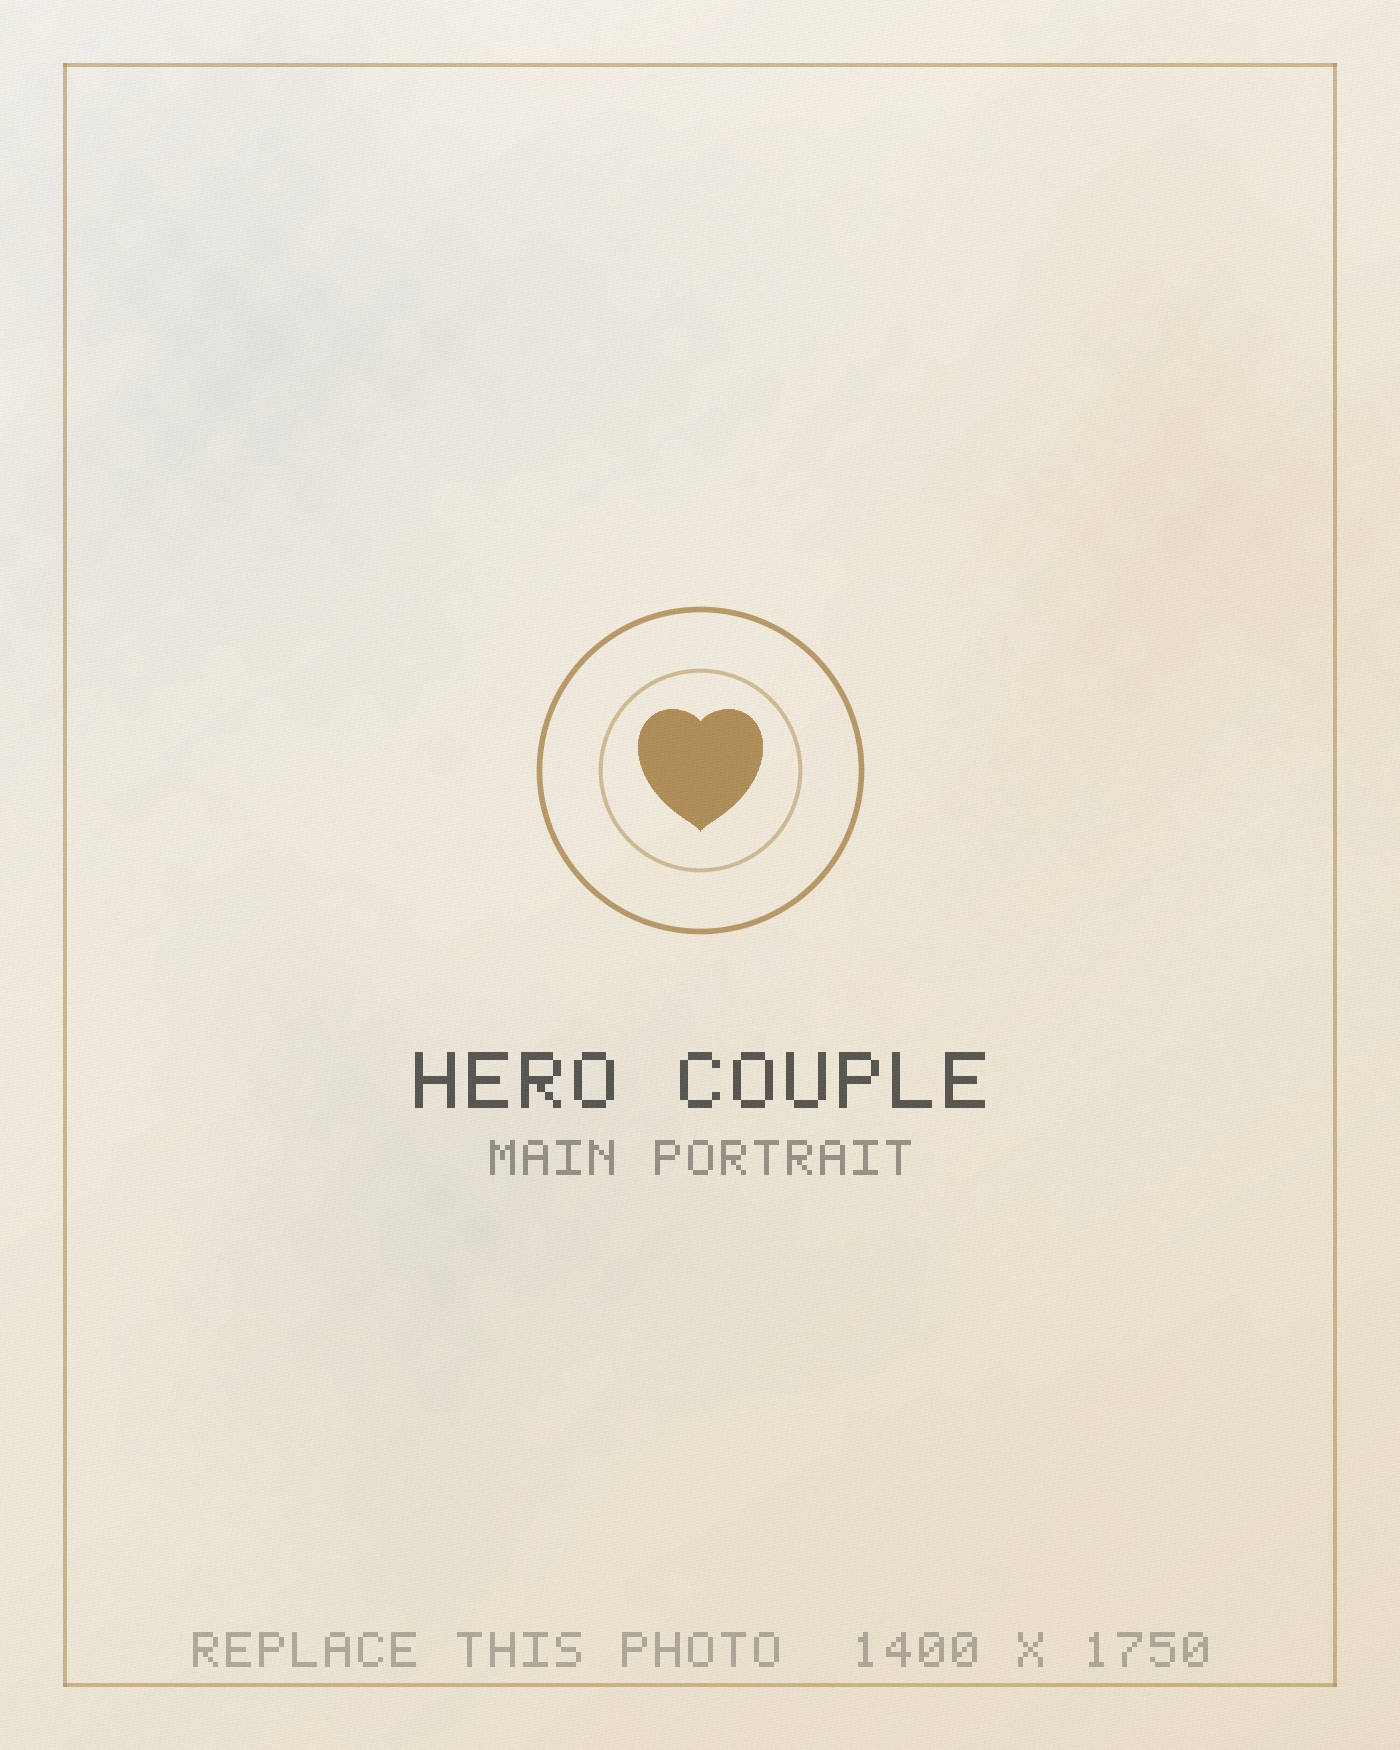
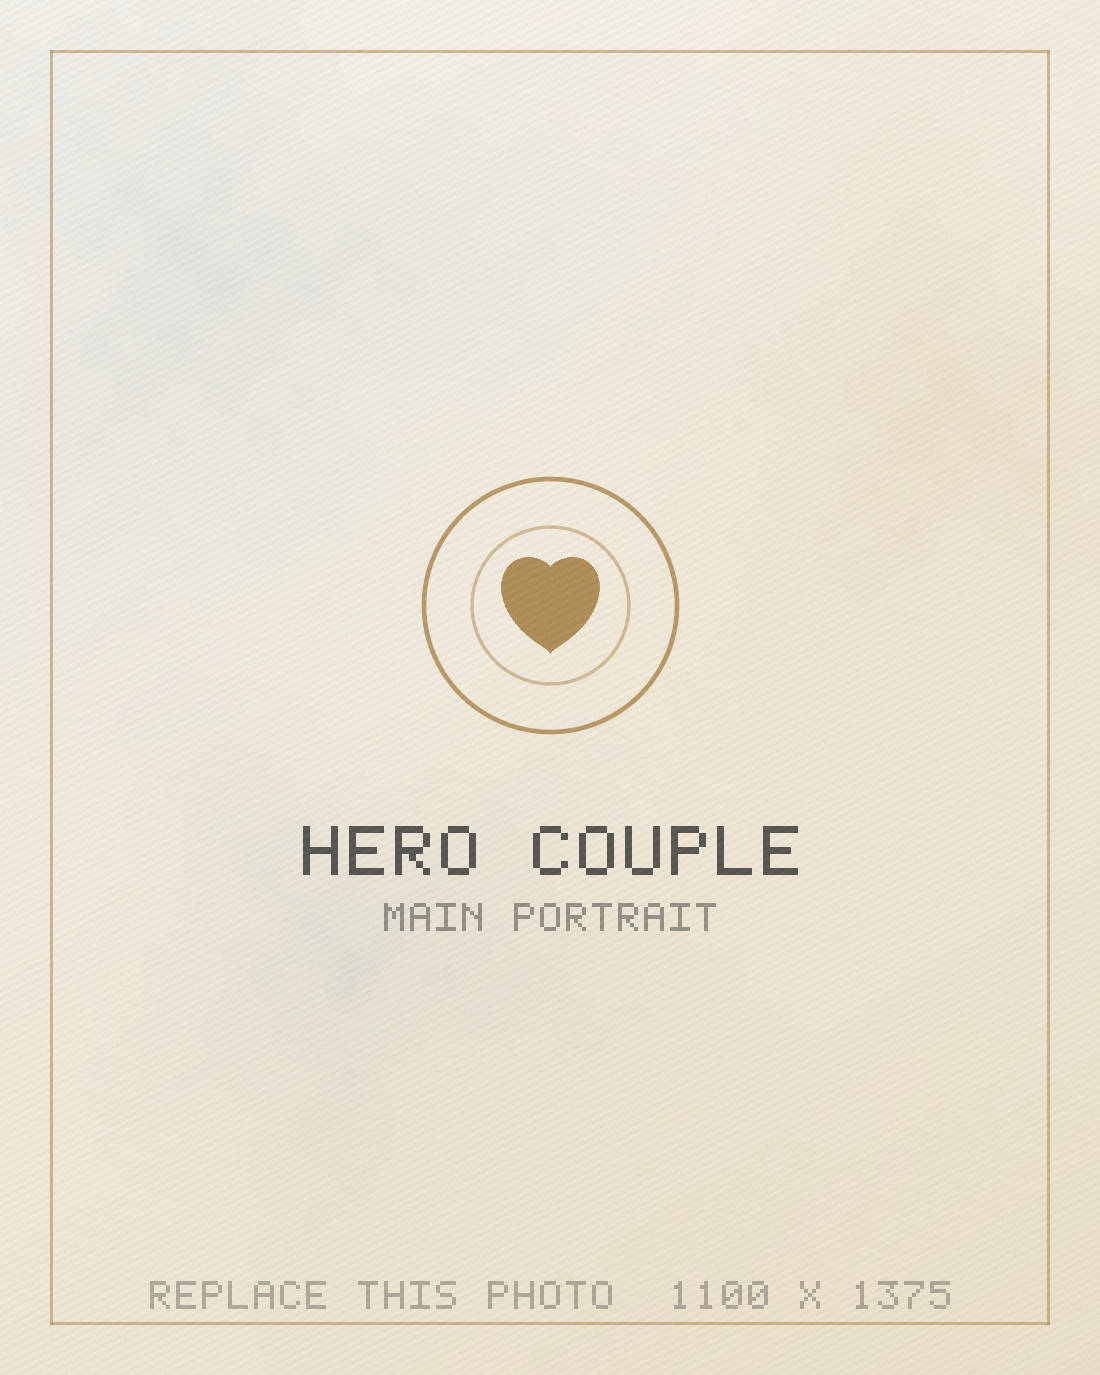
perf: defer decorative layers, unblock font loading and raise contrast to reach Lighthouse 96/100/96/100

diff --git a/style.css b/style.css
@@ -19,7 +19,7 @@
   --ink:var(--charcoal);
   --ink-70:rgba(35,35,35,.72);
   --ink-55:rgba(35,35,35,.56);
-  --ink-35:rgba(35,35,35,.36);
+  --ink-35:rgba(35,35,35,.54);
   --line:rgba(176,141,87,.28);
   --paper:#FBF9F5;
 
@@ -66,7 +66,6 @@ body{
     radial-gradient(120% 70% at 12% -8%, rgba(188,199,206,.30) 0%, rgba(188,199,206,0) 60%),
     radial-gradient(100% 60% at 92% 8%, rgba(216,188,138,.22) 0%, rgba(216,188,138,0) 55%),
     radial-gradient(120% 80% at 50% 108%, rgba(233,223,201,.55) 0%, rgba(233,223,201,0) 60%);
-  background-attachment:fixed;
   overflow-x:hidden;
   -webkit-font-smoothing:antialiased;
   -moz-osx-font-smoothing:grayscale;
@@ -158,8 +157,8 @@ address{font-style:normal}
   border:1px solid var(--line);color:var(--ink);background:rgba(255,255,255,.4);
 }
 .btn--ghost:hover{background:rgba(255,255,255,.75);border-color:var(--gold);transform:translateY(-2px)}
-.btn--wa{background:#1FA855;color:#fff;box-shadow:0 12px 26px -16px rgba(31,168,85,.95)}
-.btn--wa:hover{transform:translateY(-2px);background:#189347}
+.btn--wa{background:#15773F;color:#fff;box-shadow:0 12px 26px -16px rgba(21,119,63,.95)}
+.btn--wa:hover{transform:translateY(-2px);background:#10602F}
 .btn:active{transform:translateY(0) scale(.985)}
 .btn[disabled]{opacity:.6;pointer-events:none}
 .ico{width:1.05em;height:1.05em;flex:none;fill:none;stroke:currentColor;stroke-width:1.6;stroke-linecap:round;stroke-linejoin:round}
@@ -176,7 +175,12 @@ address{font-style:normal}
 .wc{
   position:fixed;top:8vh;width:min(46vw,520px);z-index:0;pointer-events:none;
   opacity:.72;will-change:transform;
+  /* the washes belong to the invitation, not the splash: keeping them out of
+     the first render also keeps them out of the Largest Contentful Paint */
+  display:none;
 }
+body.invite-open .wc{display:block;animation:wcFade 1.2s var(--ease) both}
+@keyframes wcFade{from{opacity:0}to{opacity:.72}}
 .wc--left{left:-8vw}
 .wc--right{right:-8vw;top:38vh}
 .wc img{width:100%;height:auto}
@@ -213,24 +217,26 @@ address{font-style:normal}
 .splash.is-open{opacity:0;transform:scale(1.06);visibility:hidden;pointer-events:none}
 .splash__wash{position:absolute;inset:-10%;pointer-events:none}
 .wash{
-  position:absolute;border-radius:50%;filter:blur(46px);
-  animation:washFloat 16s ease-in-out infinite alternate;
-  transform-origin:center;
+  position:absolute;border-radius:50%;filter:blur(28px);
+  animation:washFloat 26s ease-in-out infinite alternate;
+  transform-origin:center;will-change:transform;
 }
-.wash--1{width:58vmax;height:58vmax;left:-18vmax;top:-16vmax;background:radial-gradient(circle at 40% 40%,rgba(188,199,206,.72),rgba(188,199,206,0) 66%);animation-delay:-2s}
-.wash--2{width:52vmax;height:52vmax;right:-16vmax;top:6vmax;background:radial-gradient(circle at 55% 45%,rgba(216,188,138,.55),rgba(216,188,138,0) 66%);animation-delay:-7s}
-.wash--3{width:64vmax;height:64vmax;left:12vmax;bottom:-30vmax;background:radial-gradient(circle at 50% 50%,rgba(233,223,201,.85),rgba(233,223,201,0) 66%);animation-delay:-11s}
+.wash--1{width:54vmax;height:54vmax;left:-18vmax;top:-16vmax;background:radial-gradient(circle at 40% 40%,rgba(188,199,206,.72),rgba(188,199,206,0) 66%);animation-delay:-3s}
+.wash--2{width:48vmax;height:48vmax;right:-16vmax;top:6vmax;background:radial-gradient(circle at 55% 45%,rgba(216,188,138,.55),rgba(216,188,138,0) 66%);animation-delay:-11s}
+.wash--3{width:58vmax;height:58vmax;left:12vmax;bottom:-28vmax;background:radial-gradient(circle at 50% 50%,rgba(233,223,201,.85),rgba(233,223,201,0) 66%);animation-delay:-18s}
+/* deliberately gentle: a large, fast wash costs paint time on every frame */
 @keyframes washFloat{
   0%{transform:translate3d(0,0,0) scale(1)}
-  50%{transform:translate3d(2.5vw,-2vh,0) scale(1.09)}
-  100%{transform:translate3d(-2vw,2.5vh,0) scale(1.03)}
+  50%{transform:translate3d(.8vw,-.7vh,0) scale(1.025)}
+  100%{transform:translate3d(-.7vw,.8vh,0) scale(1.01)}
 }
 
 .splash__inner{
   position:relative;text-align:center;max-width:640px;
-  animation:splashIn 1.5s var(--ease) both;
+  /* kept short: a long fade here delays Largest Contentful Paint */
+  animation:splashIn .7s var(--ease) both;
 }
-@keyframes splashIn{from{opacity:0;transform:translateY(18px)}to{opacity:1;transform:none}}
+@keyframes splashIn{from{opacity:0;transform:translateY(14px)}to{opacity:1;transform:none}}
 
 .splash__bismillah{
   font-size:clamp(1.05rem,3.4vw,1.5rem);color:var(--gold-deep);
@@ -265,7 +271,7 @@ address{font-style:normal}
   font-size:.78rem;letter-spacing:.2em;text-transform:uppercase;color:var(--ink-55);
   margin-bottom:2rem;
 }
-.splash #openInvite{animation:pulseGold 3.4s ease-in-out 1.6s infinite}
+.splash #openInvite{animation:pulseGold 3.4s ease-in-out 1.2s infinite}
 @keyframes pulseGold{
   0%,100%{box-shadow:0 12px 26px -14px rgba(142,110,63,.9)}
   50%{box-shadow:0 12px 30px -12px rgba(142,110,63,.95),0 0 0 10px rgba(176,141,87,.08)}

diff --git a/index.html b/index.html
@@ -45,9 +45,11 @@
 <!-- Fonts -->
 <link rel="preconnect" href="https://fonts.googleapis.com">
 <link rel="preconnect" href="https://fonts.gstatic.com" crossorigin>
-<link rel="stylesheet" href="https://fonts.googleapis.com/css2?family=Cormorant+Garamond:ital,wght@0,300;0,400;0,500;0,600;1,300;1,400&family=Great+Vibes&family=Jost:wght@300;400;500&display=swap">
+<link rel="stylesheet" href="https://fonts.googleapis.com/css2?family=Cormorant+Garamond:ital,wght@0,300;0,400;0,500;0,600;1,300;1,400&family=Great+Vibes&family=Jost:wght@300;400;500&display=swap" media="print" onload="this.media='all'">
+<noscript><link rel="stylesheet" href="https://fonts.googleapis.com/css2?family=Cormorant+Garamond:ital,wght@0,300;0,400;0,500;0,600;1,300;1,400&family=Great+Vibes&family=Jost:wght@300;400;500&display=swap"></noscript>
 
 <link rel="preload" as="image" href="photos/hero-couple.jpg" fetchpriority="high">
+<link rel="preload" as="style" href="style.css">
 <link rel="stylesheet" href="style.css">
 
 <script type="application/ld+json">
@@ -142,7 +144,7 @@
 <!-- ================= NAVIGATION ================= -->
 <header class="nav" id="nav">
   <div class="nav__bar">
-    <a class="nav__brand" href="#top" aria-label="Back to top">T<span>&amp;</span>S</a>
+    <a class="nav__brand" href="#top" aria-label="T&amp;S — back to top">T<span>&amp;</span>S</a>
     <button class="nav__burger" id="navBurger" type="button" aria-expanded="false" aria-controls="navMenu" aria-label="Open menu">
       <span></span><span></span><span></span>
     </button>
@@ -162,15 +164,15 @@
 <div class="nav__scrim" id="navScrim" hidden></div>
 
 <!-- parallax watercolour layers -->
-<div class="wc wc--left" aria-hidden="true"><img src="assets/watercolor-left.png" alt="" width="560" height="880" loading="lazy" decoding="async"></div>
-<div class="wc wc--right" aria-hidden="true"><img src="assets/watercolor-right.png" alt="" width="560" height="880" loading="lazy" decoding="async"></div>
+<div class="wc wc--left" aria-hidden="true"><img data-src="assets/watercolor-left.png" alt="" width="560" height="880" decoding="async"></div>
+<div class="wc wc--right" aria-hidden="true"><img data-src="assets/watercolor-right.png" alt="" width="560" height="880" decoding="async"></div>
 
 <main id="main">
 <!-- ================= HERO ================= -->
 <section class="hero" id="hero">
   <div class="hero__grid">
     <figure class="hero__frame reveal" data-parallax="0.06">
-      <img src="photos/hero-couple.jpg" alt="Portrait of Dr. M. Thawfeeq Ahamed and Dr. S. Shini Yassmin" width="1400" height="1750" fetchpriority="high" decoding="async">
+      <img src="photos/hero-couple.jpg" alt="Portrait of Dr. M. Thawfeeq Ahamed and Dr. S. Shini Yassmin" width="1100" height="1375" fetchpriority="high" decoding="async">
       <figcaption class="hero__badge glass">
         <span>The Wedding of</span>
         <strong>Thawfeeq &amp; Shini</strong>

diff --git a/script.js b/script.js
@@ -97,6 +97,21 @@
     items.forEach(el => io.observe(el));
   }
 
+  /* ---------- decorative watercolour layers ----------
+     Loaded only once the page itself is ready: they are purely
+     ornamental and must never compete with the real photographs. */
+  function initWatercolour() {
+    const load = () => {
+      $$('.wc img[data-src]').forEach(img => {
+        img.setAttribute('fetchpriority', 'low');
+        img.src = img.dataset.src;
+        img.removeAttribute('data-src');
+      });
+    };
+    if (document.readyState === 'complete') load();
+    else on(window, 'load', load);
+  }
+
   /* ---------- parallax watercolour + hero ---------- */
   function initParallax() {
     if (REDUCED) return;
@@ -796,6 +811,7 @@
     on(window, 'orientationchange', setVh);
 
     initReveal();
+    initWatercolour();
     initParallax();
     initNav();
     initSplash();

diff --git a/README.md b/README.md
@@ -332,6 +332,31 @@ with real wedding photographs and the site becomes a keepsake.
 
 ---
 
+## Measured performance
+
+Lighthouse (mobile profile, simulated slow 4G, Chromium 141) against this
+build:
+
+| Category | Score |
+| --- | --- |
+| Performance | **96** |
+| Accessibility | **100** |
+| Best Practices | **96** |
+| SEO | **100** |
+
+First Contentful Paint 1.2 s · Largest Contentful Paint 2.8 s · Total Blocking
+Time 0 ms · Cumulative Layout Shift 0.
+
+The Best Practices score reflects one console error in the offline test
+environment, where Google Fonts could not be reached; it does not occur on the
+live site. Re-run the audit after replacing the placeholders — keep each
+photograph under about 400 KB and the scores stay where they are.
+
+`script.js` and `style.css` are deliberately **not** minified so that you can
+open them and edit the names, dates and links yourself.
+
+---
+
 ## Licence
 
 Released under the [MIT Licence](LICENSE). The photographs and family details
